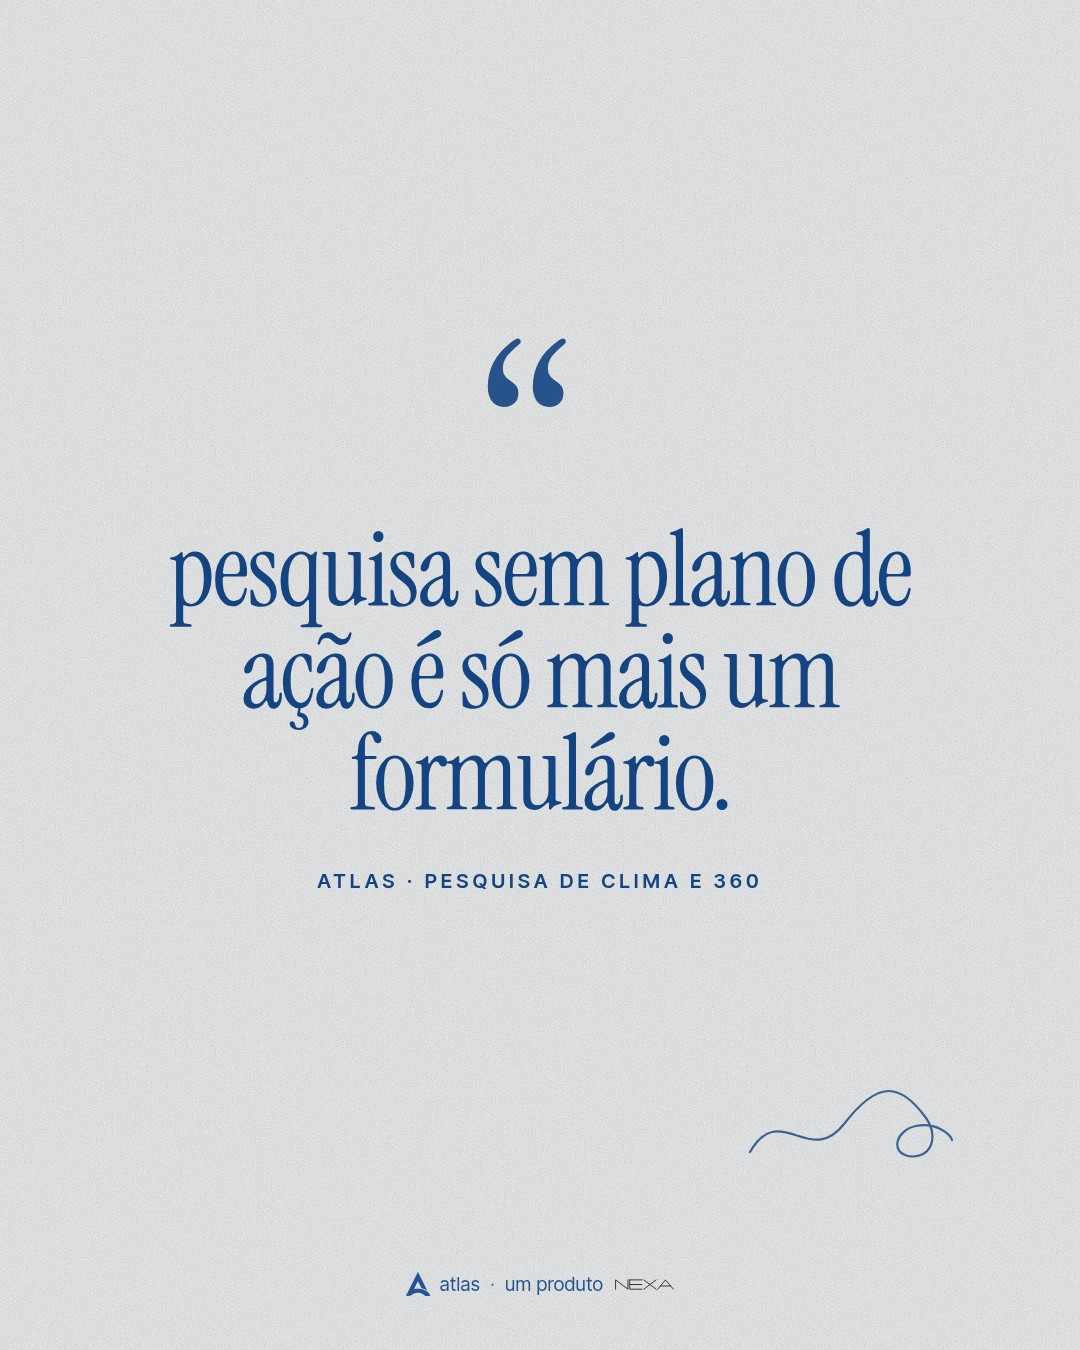
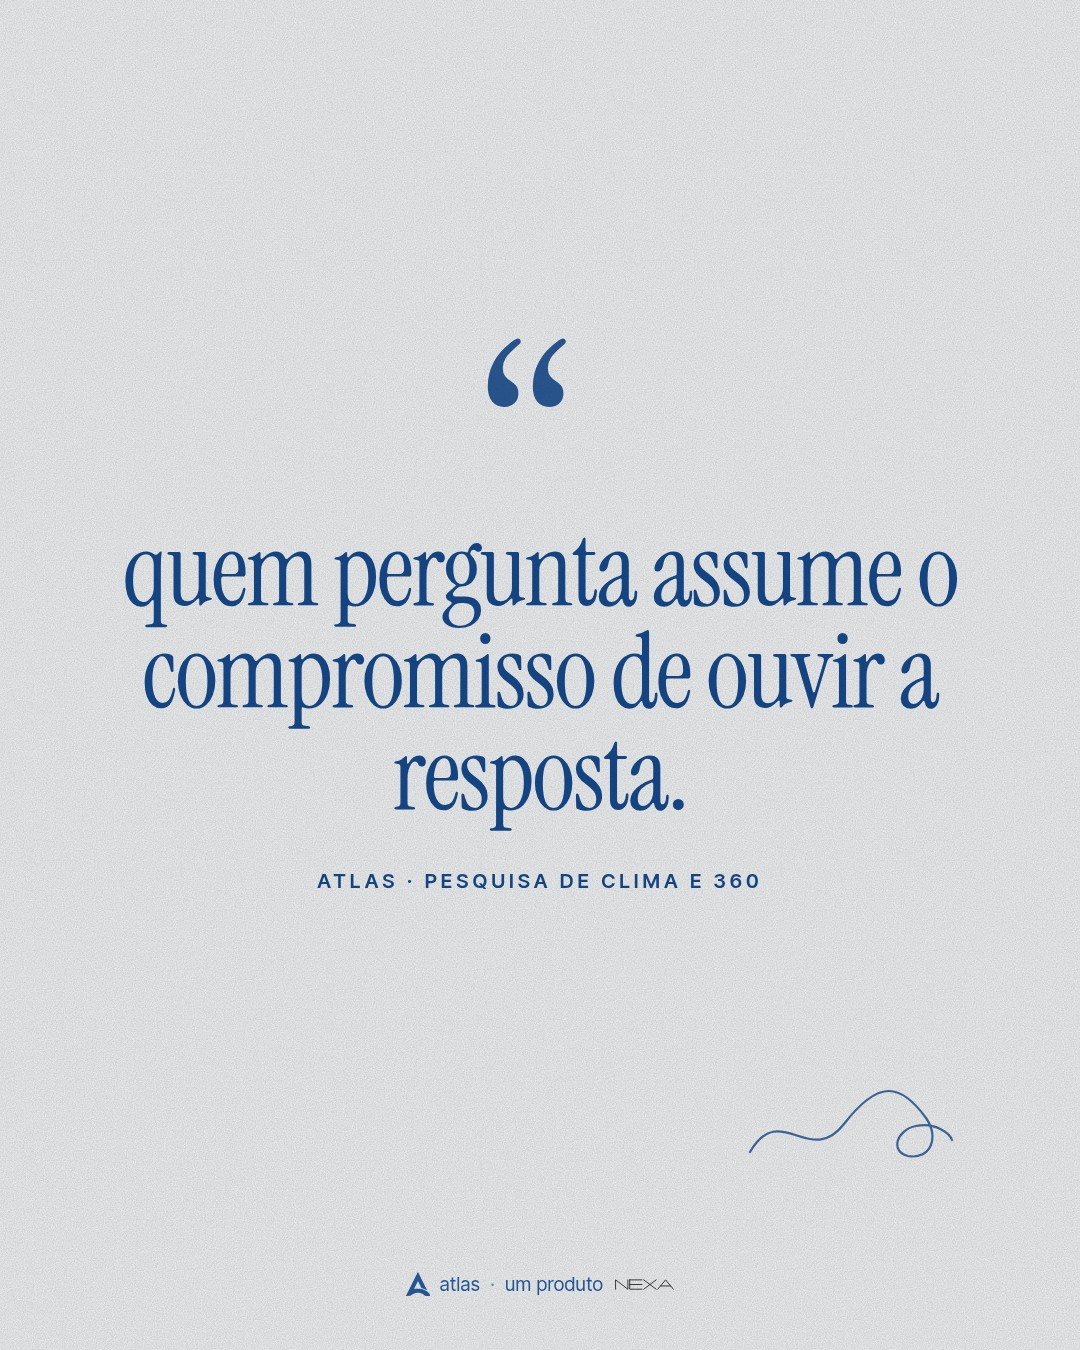
Série nowdays: frases do Atlas sem repetir o carrossel dos animais e calendário
- a1: citação trocada para "quem pergunta assume o compromisso de ouvir a
  resposta." (a anterior repetia o card 4 do carrossel dos animais)
- a2: sinal 02 vira "o pedido de demissão surpresa" com texto novo (o
  anterior repetia o card 5); legenda ajustada
- README: calendário de 4 semanas com o ponto cego e o carrossel dos animais

Claude-Session: https://claude.ai/code/session_01D69rV6pxRKedanUm525i1S

Changed region(s): [[0.0917, 0.3733, 0.8861, 0.6222]]

diff --git a/social/serie-nowdays/dados.js b/social/serie-nowdays/dados.js
@@ -145,7 +145,7 @@ const POSTS = [
       { tipo: 'textoimg', foto: 'a1-txt',
         a: 'clima responde **onde** está o problema. 360 responde **quem** pode ajudar a resolver.',
         b: 'por isso as empresas mais maduras **usam as duas**: o clima uma ou duas vezes por ano, o 360 nos ciclos de desenvolvimento.' },
-      { tipo: 'citacao', frase: 'pesquisa sem plano de ação é só mais um formulário.', cred: 'atlas · pesquisa de clima e 360' },
+      { tipo: 'citacao', frase: 'quem pergunta assume o compromisso de ouvir a resposta.', cred: 'atlas · pesquisa de clima e 360' },
       { tipo: 'virada', titulo: 'o que mata a pesquisa não é a pergunta. é o silêncio depois dela.',
         texto: 'se o time responde e nada muda, na próxima ele não responde. ou responde o que acha que você quer ouvir.' },
       { tipo: 'fecha', texto: 'antes de escolher a pesquisa, escolha **o que você vai fazer com a resposta**.', cta: 'salva pra próxima reunião de rh' },
@@ -156,7 +156,7 @@ const POSTS = [
     id: 'a2', marca: 'atlas', slug: 'sinais-do-clima', tipo: 'conteúdo', telas: [
       { tipo: 'capa', modo: 'gig', foto: 'a2-capa', texto: 'o clima do seu time está pior do que parece?' },
       { tipo: 'cur', foto: 'a2-s1', num: 'sinal 01', titulo: 'o silêncio nas reuniões', texto: 'ninguém discorda, ninguém pergunta. não é alinhamento: é desistência.' },
-      { tipo: 'cur', foto: 'a2-s2', num: 'sinal 02', titulo: 'a demissão “do nada”', texto: 'ninguém sai do nada. os sinais estavam lá. só faltou perguntar.' },
+      { tipo: 'cur', foto: 'a2-s2', num: 'sinal 02', titulo: 'o pedido de demissão surpresa', texto: 'quase sempre houve aviso: o 1:1 cancelado, a câmera desligada, a pergunta que a pessoa parou de fazer.' },
       { tipo: 'cur', foto: 'a2-s3', num: 'sinal 03', titulo: 'a cadeira vazia', texto: 'faltas e atestados que aumentam aos poucos, sempre na mesma área.' },
       { tipo: 'cur', foto: 'a2-s4', num: 'sinal 04', titulo: 'só a liderança fala', texto: 'quando o gestor fala e o time olha para baixo, a conversa já acabou.' },
       { tipo: 'fecha', texto: 'nenhum desses sinais aparece no relatório do mês. aparecem **quando alguém pergunta do jeito certo**: anônimo, por área e com retorno.', cta: 'qual sinal você já viu aí?' },

diff --git a/social/serie-nowdays/README.md b/social/serie-nowdays/README.md
@@ -40,3 +40,18 @@ node render.mjs            # out/<id>-<slug>/tela-01.jpg …  (ou: node render.m
 # serie.html?p=s1&s=3 mostra uma tela no navegador; textos em dados.js
 ```
 Legendas em `legendas.md`.
+
+## Calendário com os carrosséis "ponto cego" e "Atlas fofos"
+
+Três quadros fixos no perfil: a série editorial (base da grade), os "grandes argumentos" (ponto cego) e
+as "verdades duras com imagens fofas". As frases do a1 e do a2 não repetem as do carrossel dos animais, e
+o n2 fica a pelo menos duas semanas do ponto cego.
+
+| Semana | Seg | Qua | Sex |
+|---|---|---|---|
+| 1 | n1 | ponto cego (`../carrossel-ponto-cego`) | a1 |
+| 2 | s1 | animais (`../carrossel-atlas-fofos`) | n3 |
+| 3 | a3 | s2 | n2 |
+| 4 | a2 | s3 | n4 |
+
+Os comerciais s4 e a4 fecham o ciclo, no feed ou como anúncio.

diff --git a/social/serie-nowdays/legendas.md b/social/serie-nowdays/legendas.md
@@ -89,7 +89,7 @@ fica a reflexão: antes de escolher a pesquisa, você já sabe o que vai fazer c
 
 ## a2 · Atlas · conteúdo · o clima do seu time está pior do que parece?
 
-silêncio nas reuniões, a demissão "do nada", a cadeira vazia que aparece cada vez mais na mesma área, a liderança falando sozinha.
+silêncio nas reuniões, o pedido de demissão que pega todo mundo de surpresa, a cadeira vazia que aparece cada vez mais na mesma área, a liderança falando sozinha.
 
 nenhum desses sinais aparece no relatório do mês. eles aparecem quando alguém pergunta do jeito certo: anônimo, por área e com retorno para o time.
 
